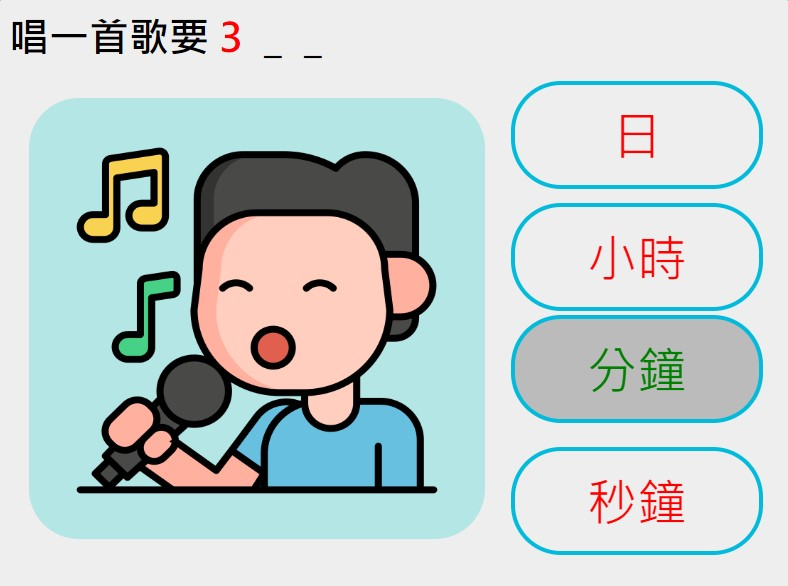
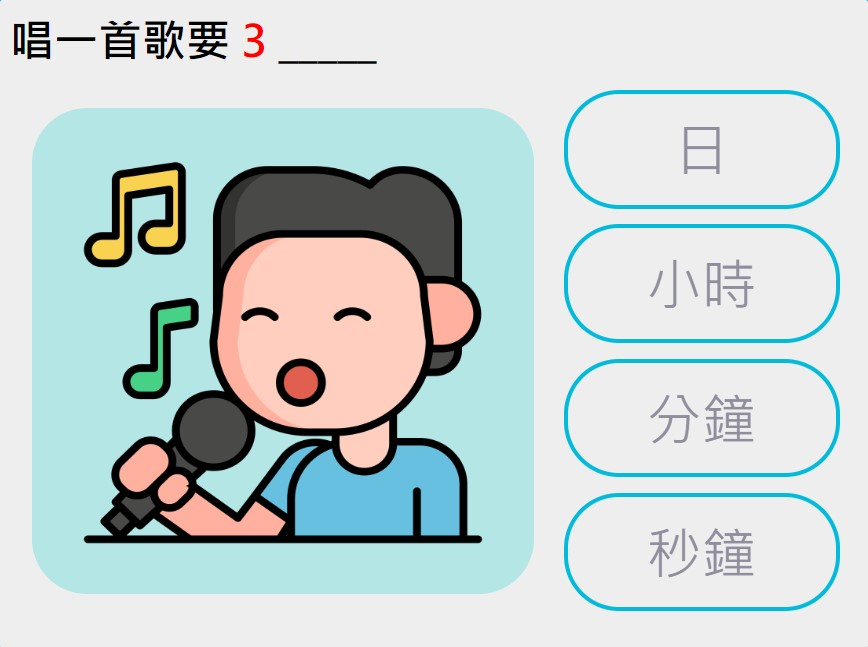
Update grade view style

diff --git a/game_view/src/script.js b/game_view/src/script.js
@@ -6,6 +6,7 @@ async function init() {
     const allGameData = await gameModules.getJson('../../../game_view/game_config.json');
     const gameID = getGameID();
     const gameData = allGameData[gameID];
+    const gameGrade = gameData.game_grade;
     const gameName = gameData.game_name;
 
     const levelsArea = $('.levelBtn');
@@ -19,6 +20,7 @@ async function init() {
 
     setupEventListeners(gameName, gameData, levelsArea, optionsArea);
     setupAnimation();
+    setupGameColor(constant.GAME_COLOR[gameGrade]);
 }
 
 function getGameID() {
@@ -60,7 +62,7 @@ function getRule(gameData) {
 function updateOptions(gameData) {
     const options = gameData.game_option;
     $('.optionsBtn button').filter((index, element) => {
-        return !options.includes(element.classList[0]);
+        return !options.includes($(element).attr('id'));
     }).remove();
 }
 
@@ -97,7 +99,7 @@ function setupEventListeners(gameName, gameData, levelsArea, optionsArea) {
 
         const btnHandler = new Handler(game, levelsArea);
         function handleOptionsButtonClick(e) {
-            const act = $(this).attr('class');
+            const act = $(this).attr('id');
             if (act === constant.optionsBtn.START_BTN) {
                 const gameRule = $('.gameRule');
                 gameRule.css({"display": 'none'});
@@ -123,4 +125,26 @@ function setupAnimation() {
     });
 }
 
+function setupGameColor(color) {
+    const bgElement = ['.active', '.optionsBtn *']
+    const borderElement = ['.previousPage', '.myCanvas', '.gameBtn *']
+    const hoverBGElement = ['.previousPage', '.levelBtn *']
+    bgElement.forEach((ele) => {
+        $(ele).css('background-color', color)
+    })
+    borderElement.forEach((ele) => {
+        $(ele).css('border-color', color);
+    })
+    
+    hoverBGElement.forEach((ele) => {
+        var colorStyle = $('<style>');
+        colorStyle.text(`
+        ${ele}:hover {
+            background-color: ${color};
+        }
+        `);
+        $('head').append(colorStyle);
+    })
+
+}
 $(document).ready(init);

diff --git a/game_view/css/style.css b/game_view/css/style.css
@@ -86,11 +86,11 @@ button {
     border-radius: 30px;
     height: 50px;
     width: 200px;
-    border: 3px solid #02bbdc;
+    border-width: 3px;
+    border-style: solid;
     font-size: 30px;
 }
 .previousPage:hover {
-    background-color: #02bbdc;
     color: #fff;
     transition: 0.5s;
 }
@@ -111,8 +111,8 @@ button {
     width: 800px;
     height: 600px;
     background-color: #eee;
-    border:5px solid #02bbdc;
-    background-color: #eee;
+    border-width:5px;
+    border-style: solid;
     border-radius: 10px;
     box-sizing: content-box;
 }
@@ -163,7 +163,6 @@ button {
 }
 
 .gameBtn *:hover {
-    background-color: #02bbdc;
     color: #fff;
     transform: translate(0px, -5px);
     transition: 0.5s;
@@ -182,7 +181,6 @@ button {
 }
 
 .levelBtn *.active {
-    background-color: #02bbdc;
     color: #fff;
     transition: 0.5s;
 }
@@ -195,7 +193,6 @@ button {
 
 /* option */
 .optionsBtn * {
-    background-color: #02bbdc;
     color: #fff;
     border-radius: 10px;
     height: 40px;
@@ -208,20 +205,20 @@ button {
 }
 
 .optionsBtn *:hover {
-    background-color: #eee;
+    background-color: #eee !important; 
     color: #8e8e9c;
     transition: 0.5s;
 }
 
-.optionsBtn .startBtn {
+.optionsBtn #startBtn {
     flex: 4;
 }
-.optionsBtn .submitBtn {
-    background-color: #02dc31;
-    border-color: #02dc31;
+.optionsBtn #submitBtn {
+    background-color: #02dc31 !important;
+    border-color: #02dc31 !important;
 }
-.optionsBtn .submitBtn:hover {
-    color: #eee;
+.optionsBtn #submitBtn:hover {
+    color: #8e8e9c;
     box-shadow: 1px 5px 10px rgba(0,0,0,0.3);
     transition: 0.5s;
 }

diff --git a/game_view/index.html b/game_view/index.html
@@ -57,12 +57,12 @@
                 </div>
             </div>
             <div class="gameBtn optionsBtn">
-                <button class="lastBtn">上一關</button>
-                <button class="startBtn">遊戲開始</button>
-                <button class="nextBtn">下一關</button>
-                <button class="hintBtn">提示</button>
-                <button class="recordBtn">💾</button>
-                <button class="submitBtn jumpBtn">送出答案</button>
+                <button id="lastBtn">上一關</button>
+                <button id="startBtn">遊戲開始</button>
+                <button id="nextBtn">下一關</button>
+                <button id="hintBtn">提示</button>
+                <button id="recordBtn">💾</button>
+                <button id="submitBtn" class="jumpBtn">送出答案</button>
             </div>
         </div>
     </div>

diff --git a/game_view/src/constant.js b/game_view/src/constant.js
@@ -5,6 +5,14 @@ export const GAME_WIN = 'WIN'
 export const BINGO = 'O'
 export const DADA = 'X'
 
+export const GAME_COLOR = [
+    '#ECA673'
+    , '#EFCE7F'
+    , '#ADC090'
+    , '#79C3C6'
+    , '#AD9AC8'
+    , '#898EA3'
+]
 // option btn
 export const optionsBtn = {
     'LAST_BTN' : 'lastBtn'
